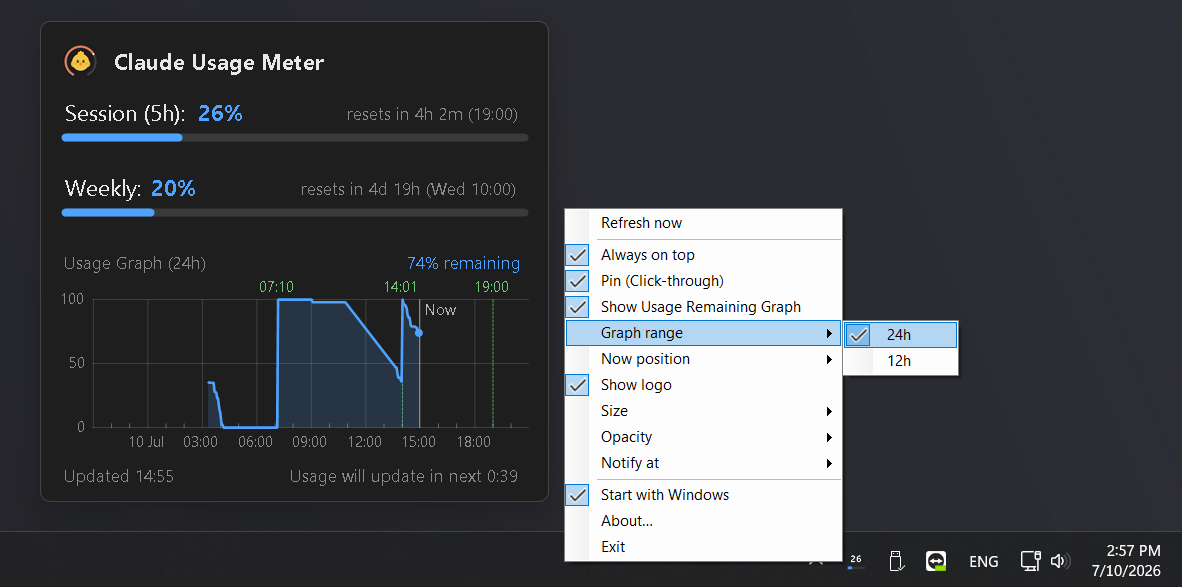
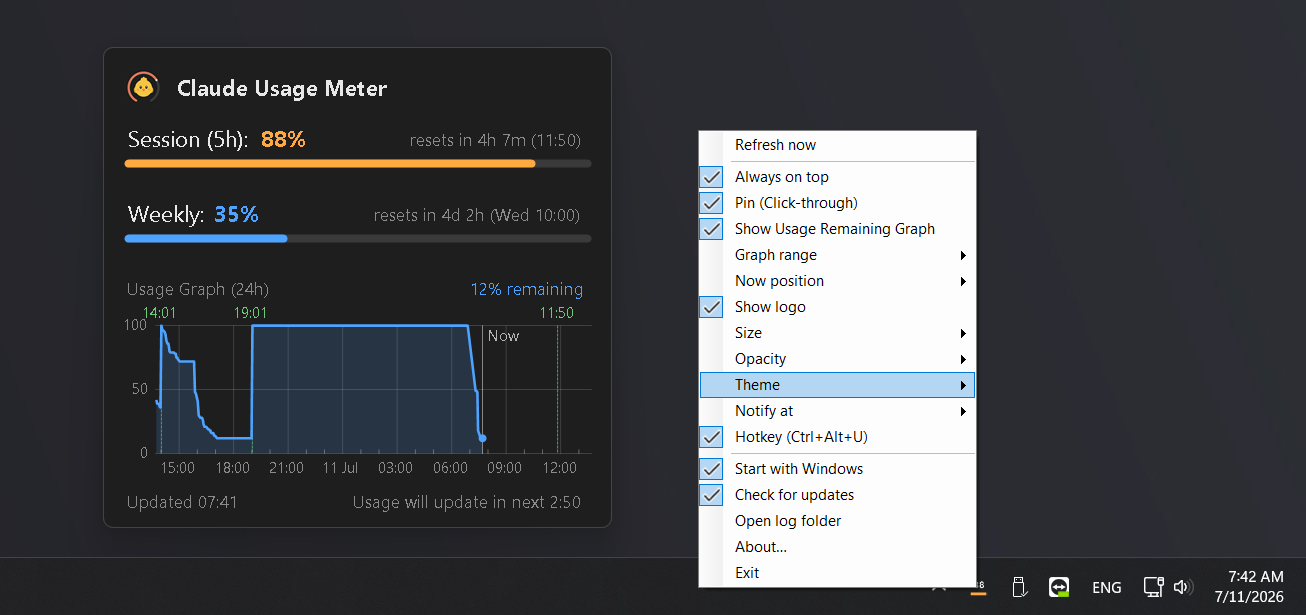
README: new screenshot, rewrite features section

Changed region(s): [[0.0305, 0.184, 1.0, 0.9813], [0.0305, 0.0613, 0.4569, 0.276]]

diff --git a/README.md b/README.md
@@ -16,16 +16,15 @@ Claude Code's `/usage`, always one click away.
 
 ## Features
 
-- 🟦 **Tray icon** with the highest usage % drawn live, color-coded (blue → orange → red)
-- 🖱 **Left-click** opens a dark popup with a progress bar, reset countdown and actual reset time per limit window
-- 📌 **Always on top** — pin the popup anywhere on screen (drag to move, position remembered)
-- 👻 **Pin (Click-through)** — pinned popup lets mouse clicks pass through to windows behind it
-- 📈 **Usage Remaining graph** — session remaining % over the last 24 h with an hourly time axis (toggleable)
-- 🔍 **3 sizes** (Small / Medium / Big) and **5 opacity levels** (hover restores full opacity)
-- 🔔 **Usage alert** — Windows notification at a threshold you pick (50–95 %, or off)
-- ⏱ Live countdown to the next data refresh
-- 🚀 Starts with Windows (toggleable), single instance, ~200 KB framework-dependent build
-- 💾 All preferences persist across restarts
+- Tray icon renders your highest usage percentage live, shifting color as you approach the limit
+- Popup shows a progress bar, reset countdown and exact reset time for every limit window
+- Usage graph plots session remaining over a 12 or 24 hour axis, with hourly ticks, reset markers for both past and upcoming resets, and an adjustable "now" position
+- Pin the popup anywhere on screen; optionally let mouse clicks pass through it while pinned
+- Dark and light themes, three popup sizes, five opacity levels with full opacity restored on hover
+- Usage alert notifications at any threshold from 50 to 95 percent
+- One-click login recovery when the Claude session expires, plus local diagnostic logs for troubleshooting
+- Global hotkey (Ctrl+Alt+U), autostart with Windows, automatic update check, single instance
+- Every preference persists across restarts
 
 ## Download
 